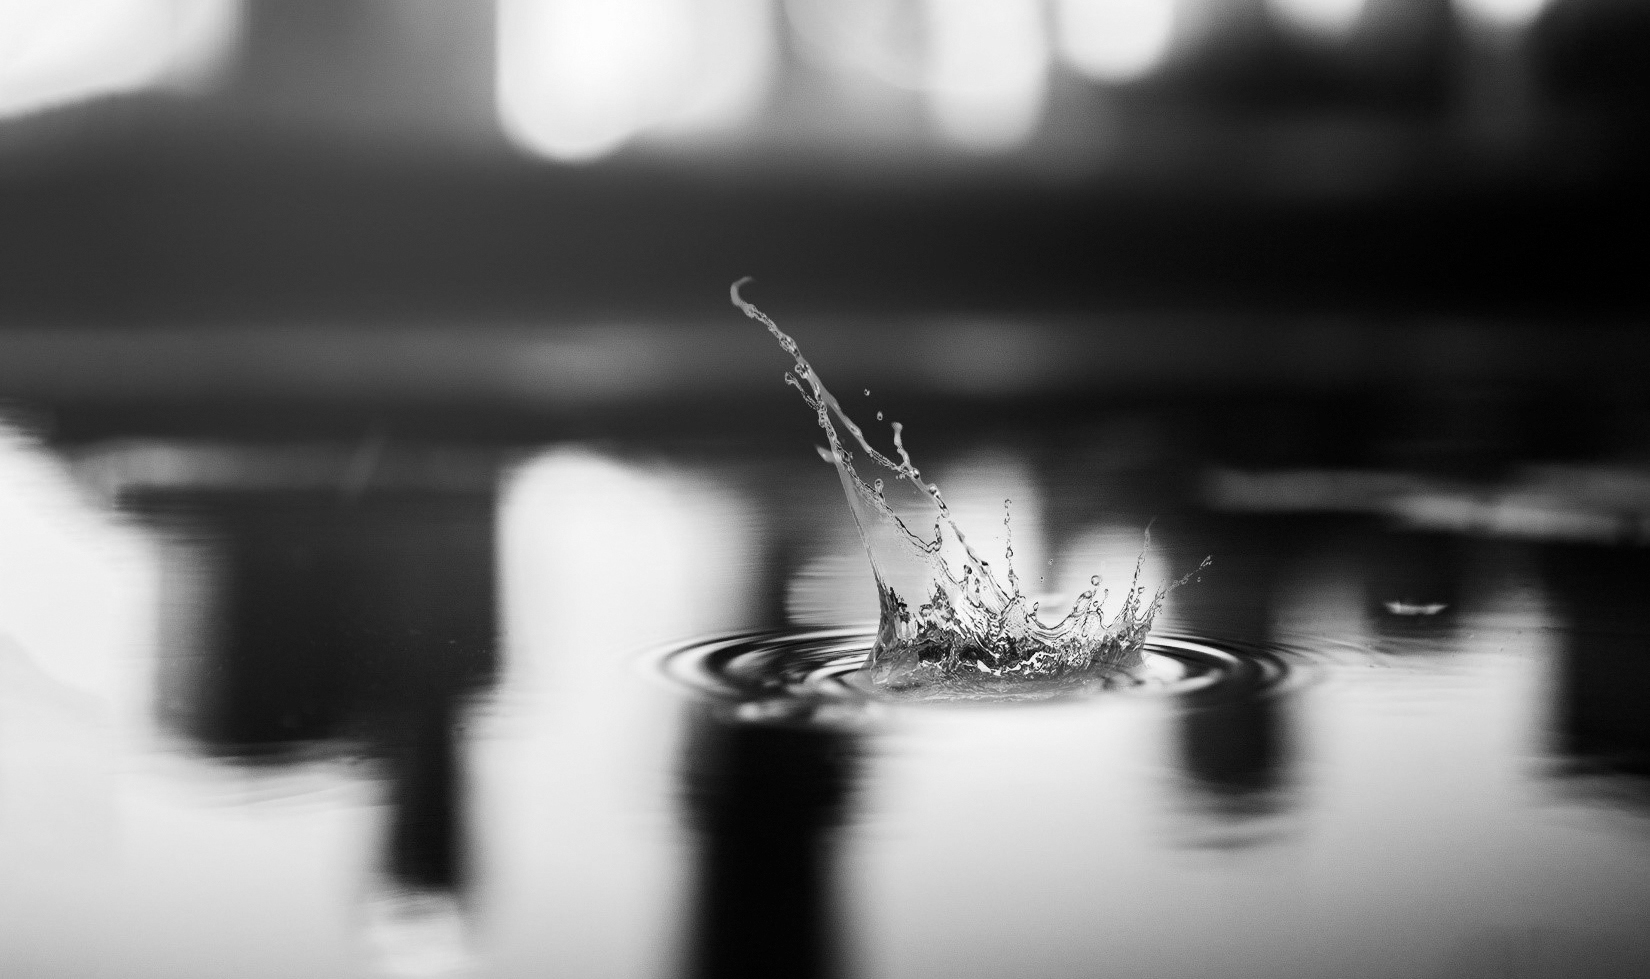
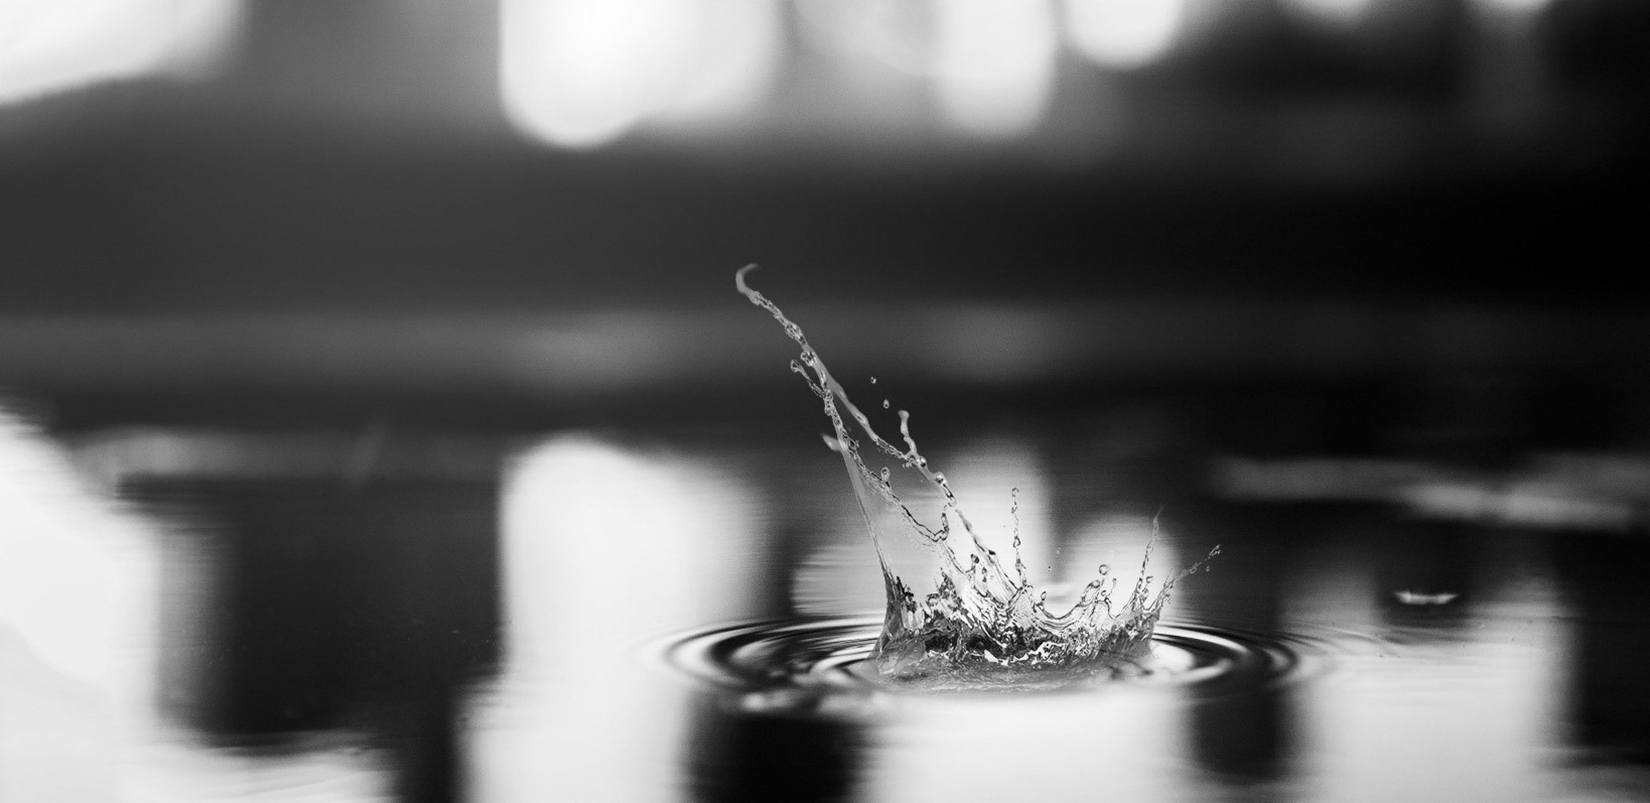
Home - RWD + fix details

diff --git a/css/responsive.css b/css/responsive.css
@@ -1,5 +1,26 @@
+@media screen and (max-width:1675px){
+    .cadre.two {
+        right: -60em;
+    }
+}
+
+@media screen and (max-width:1525px){
+    .cadre.two {
+        right: -65em;
+    }
+
+    img.home-image {
+        left: -20em;
+    }
+        
+}
 
 @media screen and (max-width:1325px){
+
+    img.home-image {
+        left: -25em;
+    }
+    
     .content-about {
         width: 45%;
     }
@@ -10,6 +31,15 @@
     
     .card{
         margin: 0 2.5em;
+    }
+}
+
+@media screen and (max-width: 1250px){
+    .cadre.one {
+        left: -30em;
+    }
+    div.mask-text {
+        padding: 5em 5em 5em 28em;
     }
 }
 
@@ -35,6 +65,10 @@
     header .contact {
         padding: 0.3em 0.3em;
         margin-right: 0.5em;
+    }
+
+    img.home-image {
+        left: -30em;
     }
 }
 
@@ -90,6 +124,20 @@
     .contact.mobile{
         display: flex;
     }
+
+    .cadre.one {
+        left: -30em;
+        top:7em;
+        height: 285px;
+    }
+    
+    .mask-text{
+        padding:2em 1em 2em 28em !important;
+    }
+
+    div.mask-image {
+        margin-left: -8em;
+    }
 }
 
 @media screen and (max-width: 879px){
@@ -117,6 +165,47 @@
     }
 }
 
+@media screen and (max-width: 770px){
+     .home-content{
+        display:block !important
+    }
+
+    .cadre, .mask-text br{
+        display:none;
+    }
+
+    div.mask-text {
+        width: auto;
+        transform: none;
+        border-radius: 0;
+        margin-left: 0;
+        padding: 1em !important;
+        font-size: smaller;
+    }
+
+    .mask-text h1{
+        transform: none;
+    }
+
+    div.mask-image{
+        width: auto;
+        transform: none;
+        border-radius: 0;
+        margin-bottom: 2em;
+        height: auto;
+        margin-left:0;
+    }
+
+    img.home-image {
+        transform: none;
+        position: relative;
+        max-width: 100%;
+        left: 0;
+        top: 0;
+    }
+
+}
+
 @media screen and (max-width: 615px){
     .content-about {
         width: 100%;
@@ -125,5 +214,23 @@
 
     .contact.mobile{
         display: none;
+    }
+}
+
+@media screen and (max-width: 383px){
+    #pictos {
+        transform: none;
+        width: 100% !important;
+        padding: 1em;
+        margin-top: 1em;
+        border-radius:0;
+        margin-right:0;
+        justify-content:center;
+        display: flex;
+    }
+
+    .pictos {
+        transform: none;
+        margin: 0 0.5em;
     }
 }

diff --git a/css/styles.css b/css/styles.css
@@ -148,9 +148,9 @@ header .contact p{
 section#home{
   margin-top:112px;
   background: #e9f6fc;
-  background: -moz-linear-gradient(60deg,  #e9f6fc 0%, #e9f6fc 40%, #e9f6fc 40%, #ffffff 40%, #ffffff 100%);
-  background: -webkit-linear-gradient(60deg,  #e9f6fc 0%,#e9f6fc 40%,#e9f6fc 40%,#ffffff 40%,#ffffff 100%);
-  background: linear-gradient(60deg,  #e9f6fc 0%,#e9f6fc 40%,#e9f6fc 40%,#ffffff 40%,#ffffff 100%);
+  background: -moz-linear-gradient(55deg,  #e9f6fc 0%, #e9f6fc 40%, #e9f6fc 40%, #ffffff 40%, #ffffff 100%);
+  background: -webkit-linear-gradient(55deg,  #e9f6fc 0%,#e9f6fc 40%,#e9f6fc 40%,#ffffff 40%,#ffffff 100%);
+  background: linear-gradient(55deg,  #e9f6fc 0%,#e9f6fc 40%,#e9f6fc 40%,#ffffff 40%,#ffffff 100%);
 /*   filter: progid:DXImageTransform.Microsoft.gradient( startColorstr='#e9f6fc', endColorstr='#ffffff',GradientType=1 ); */
   display:flex;
   flex-direction: column;
@@ -176,6 +176,8 @@ section#home{
 
 .home-content{
   position: relative;
+  display: flex;
+  align-items: center;
 }
 
 div.mask-text {
@@ -198,21 +200,21 @@ div.mask-image {
   transform: skew(35deg, 0deg);
   border-radius: 3em 0.7em;
   overflow: hidden;
-  height: 65vh;
+  height: 560px;
   margin-left:-5em;
 }
 
 img.home-image {
   transform: skew(-35deg, 0deg) translateX(-5%);
   position: absolute;
-  left: -8em;
-  top: -10em;
-  width: 80vw;
+  left: -12em;
+  top: -15em;
+  max-width: 1650px;
 }
 
 .cadre {
-  width: 55vw;
-  height: 40vh;
+  width: 1050px;
+  height: 320px;
   z-index: 2;
   border: white solid 0.2em;
   position: absolute;
@@ -304,6 +306,12 @@ section#contact{
   display:flex;
   justify-content:space-between;
   align-items:center;
+}
+
+
+.contact-row{
+  display: flex;
+  flex-wrap: wrap;
 }
 
 #formulaire{

diff --git a/index.php b/index.php
@@ -58,14 +58,14 @@
                 <img class="pictos" src="images/vent.png" alt="Ventilation">
             </div>
 
-            <div class="home-content d-flex align-items-center mt-5">
+            <div class="home-content mt-5">
                 <div class="cadre one"></div>
-                <div class="mask-text col-md-4">
+                <div class="mask-text col-lg-4 col-md-12">
                     <h1>La maîtrise <span><br>des fluides <br>et de l'énergie</span></h1>
                 </div>
                 <div class="cadre two"></div>
-                <div class="mask-image col-md-8">
-                    <img class="home-image" src="images/ImageAccueil2_NB.jpg">
+                <div class="mask-image col-lg-8 col-md-12">
+                    <img class="home-image img-fluid" src="images/ImageAccueil2_NB.jpg">
                 </div>
             </div>
         </section>
@@ -116,7 +116,7 @@
         </section>
         <section id="contact" class="contact">
             <div class="col-xl-8">
-                <div class="row">
+                <div class="contact-row">
                     <div class="col-lg-6 text-contact">
                         <h2>Contact</h2>
                         <p class="bolder">Vous voulez des précisions sur les prestations ? Vous souhaitez discuter de votre projet ?</p>
